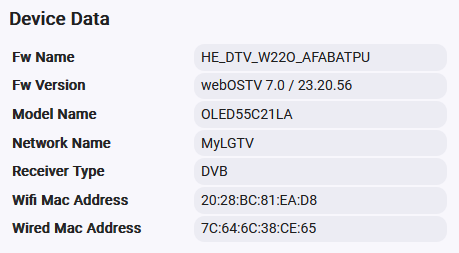
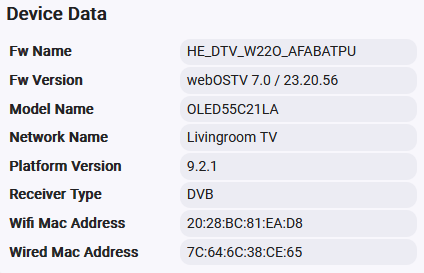
- Add "MediaTransport" commands: play(), pause() and stop() - Simulate TV Remote control - `@mluck`, `@spotty` - Delay the `switch = on` Hubitat event until TV is ready to process commands - `@salieri`

diff --git a/README.md b/README.md
@@ -28,6 +28,11 @@ If you prefer not to use HPM, you can manually install the drivers by importing 
 1. Enter `https://codeberg.org/dan-danache/hubitat/raw/branch/main/lgtv-drivers/lgtv-with-webos.groovy` it in the URL field.
 1. Click **Import**, then click **OK** and the code should load in the editor.
 1. Click **Save** in the top right.
+1. Go to **Drivers Code**.
+1. Click **Add driver**, then select **Import** from the hamburger menu in the top right.
+1. Enter `https://codeberg.org/dan-danache/hubitat/raw/branch/main/lgtv-drivers/component/lgtv-remote.groovy` it in the URL field.
+1. Click **Import**, then click **OK** and the code should load in the editor.
+1. Click **Save** in the top right.
 
 For more information on installing custom drivers, refer to the [Official Documentation](https://docs2.hubitat.com/en/how-to/install-custom-drivers).
 
@@ -97,6 +102,13 @@ The following commands are available:
 - Start, Pause, Stop the current file loaded in the Media Player app
 - Start Video - Play the specified video file in Media Player app
 - Start Web Page - Open the specified URL in Web Browser app
+
+### TV Remote control
+- Orchestrate and execute (simulate) TV Remote button pushes. Example buttons sequence: `MENU WAIT:2000 LEFT ENTER WAIT:1500 DOWN DOWN DOWN BACK`.
+
+  See list of all possible buttons [in the source code](component/lgtv-remote.groovy).
+
+  By default, a pause of 350 ms is added between button pushes. You can override this by using the special 'WAIT:xxx' instruction, where xxx = time, in milliseconds, to wait before sending the next button push.
 
 ### Notifications
 - Device Notification - Display toast or an alert notifications to the TV screen

diff --git a/CHANGELOG.md b/CHANGELOG.md
@@ -5,9 +5,13 @@ All notable changes to this project will be documented in this file.
 The format is based on [Keep a Changelog](https://keepachangelog.com/en/1.0.0/),
 and this project adheres to [Semantic Versioning](https://semver.org/spec/v2.0.0.html).
 
-## [1.6.0] - 2025-01-27
+## [1.6.0] - 2025-02-11
 ### Added
 - Add "MediaTransport" commands: play(), pause() and stop()
+- Simulate TV Remote control - `@mluck`, `@spotty`
+
+### Fixed
+- Delay the `switch = on` Hubitat event until TV is ready to process commands - `@salieri`
 
 ## [1.5.2] - 2025-01-27
 ### Fixed
